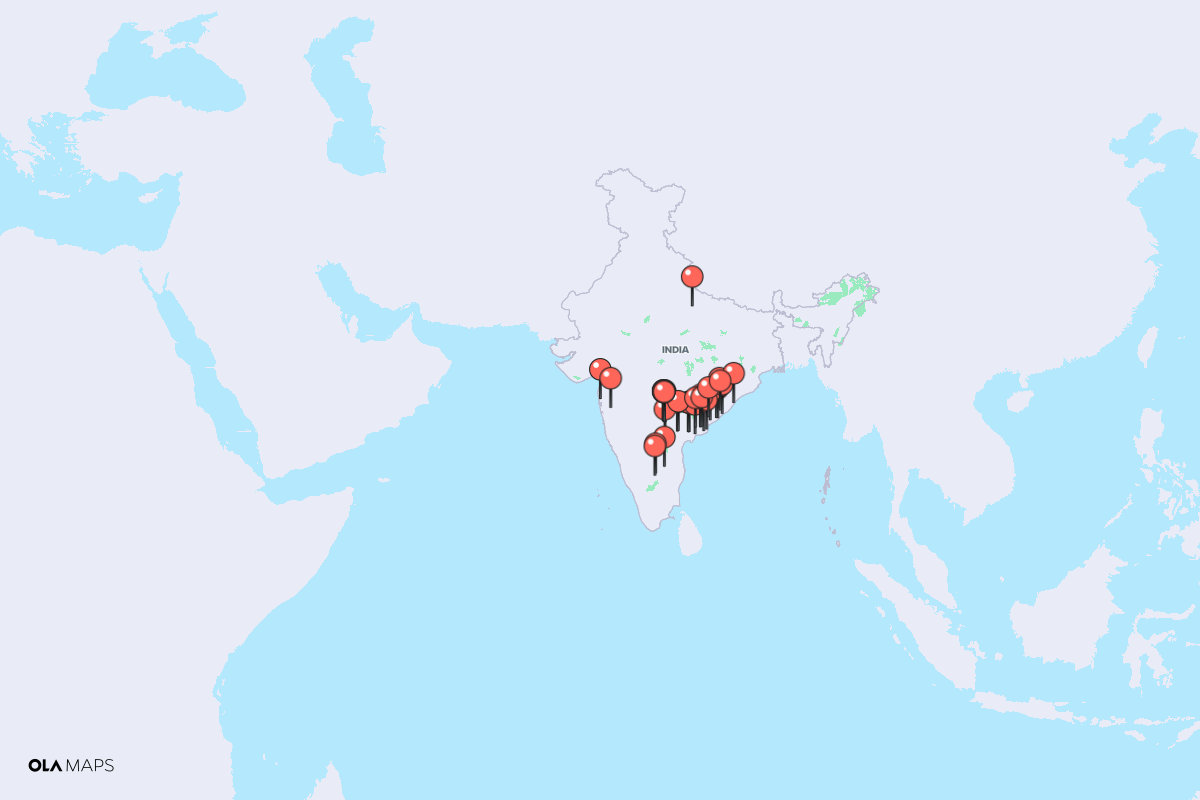
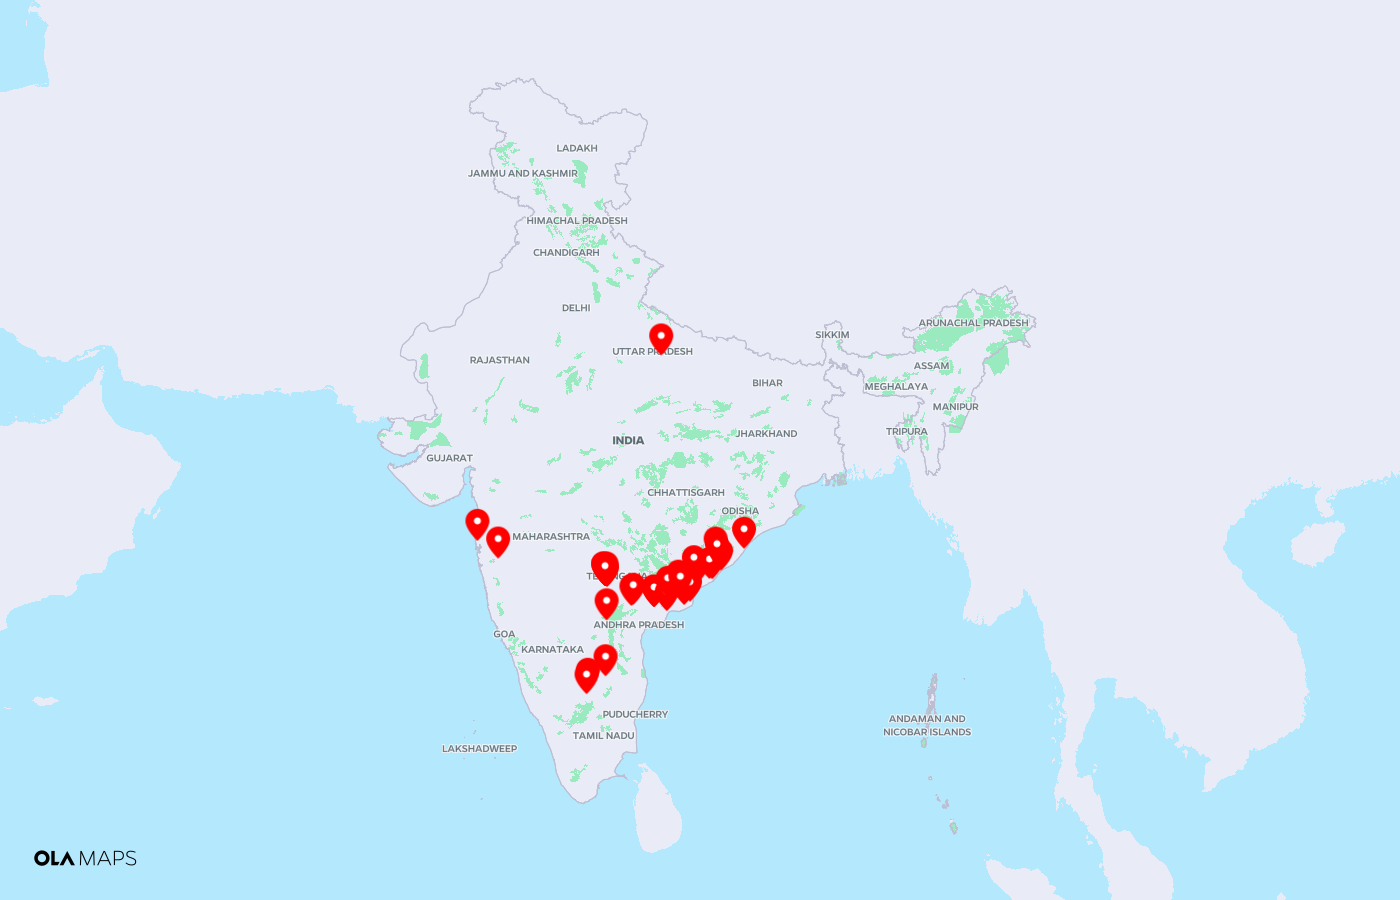
Updated map generation and frontend changes

diff --git a/server.js b/server.js
@@ -47,16 +47,34 @@ async function generateMapSnapshot() {
   })
   .join("&marker=");
 
-    const centerLng =
-      uploadedLocations[0].longitude;
+  const extraPoints = [
+  { latitude: 35.5, longitude: 74.0 }, // Jammu & Kashmir
+  { latitude: 11.7, longitude: 92.7 }, // Andaman & Nicobar
+  { latitude: 10.5, longitude: 72.6 }  // Lakshadweep
+];
 
-    const centerLat =
-      uploadedLocations[0].latitude;
+const allLocations = [...uploadedLocations, ...extraPoints];
 
-    const staticMapUrl =
-      `https://api.olamaps.io/tiles/v1/styles/default-light-standard/static/` +
-      `${centerLng},${centerLat},4/1200x800.png?marker=${markers}` +
-      `&api_key=${OLA_API_KEY}`;
+const latitudes = allLocations.map(
+  p => parseFloat(p.latitude)
+);
+
+const longitudes = allLocations.map(
+  p => parseFloat(p.longitude)
+);
+
+const centerLat =
+  (Math.min(...latitudes) +
+   Math.max(...latitudes)) / 2;
+
+const centerLng =
+  (Math.min(...longitudes) +
+   Math.max(...longitudes)) / 2;
+
+const staticMapUrl =
+  `https://api.olamaps.io/tiles/v1/styles/default-light-standard/static/` +
+  `${centerLng},${centerLat},5/1400x900.png?marker=${markers}` +
+  `&api_key=${OLA_API_KEY}`;
 
     const response = await axios.get(
       staticMapUrl,

diff --git a/public/index.html b/public/index.html
@@ -963,11 +963,6 @@ function plotAllLocations() {
     state.routeLayers = [];
   }
 
-  if (!state.originLatLng) {
-    showToast("Please select Origin Location");
-    return;
-  }
-
   // Remove old routes
   state.routeLayers.forEach((id) => {
 